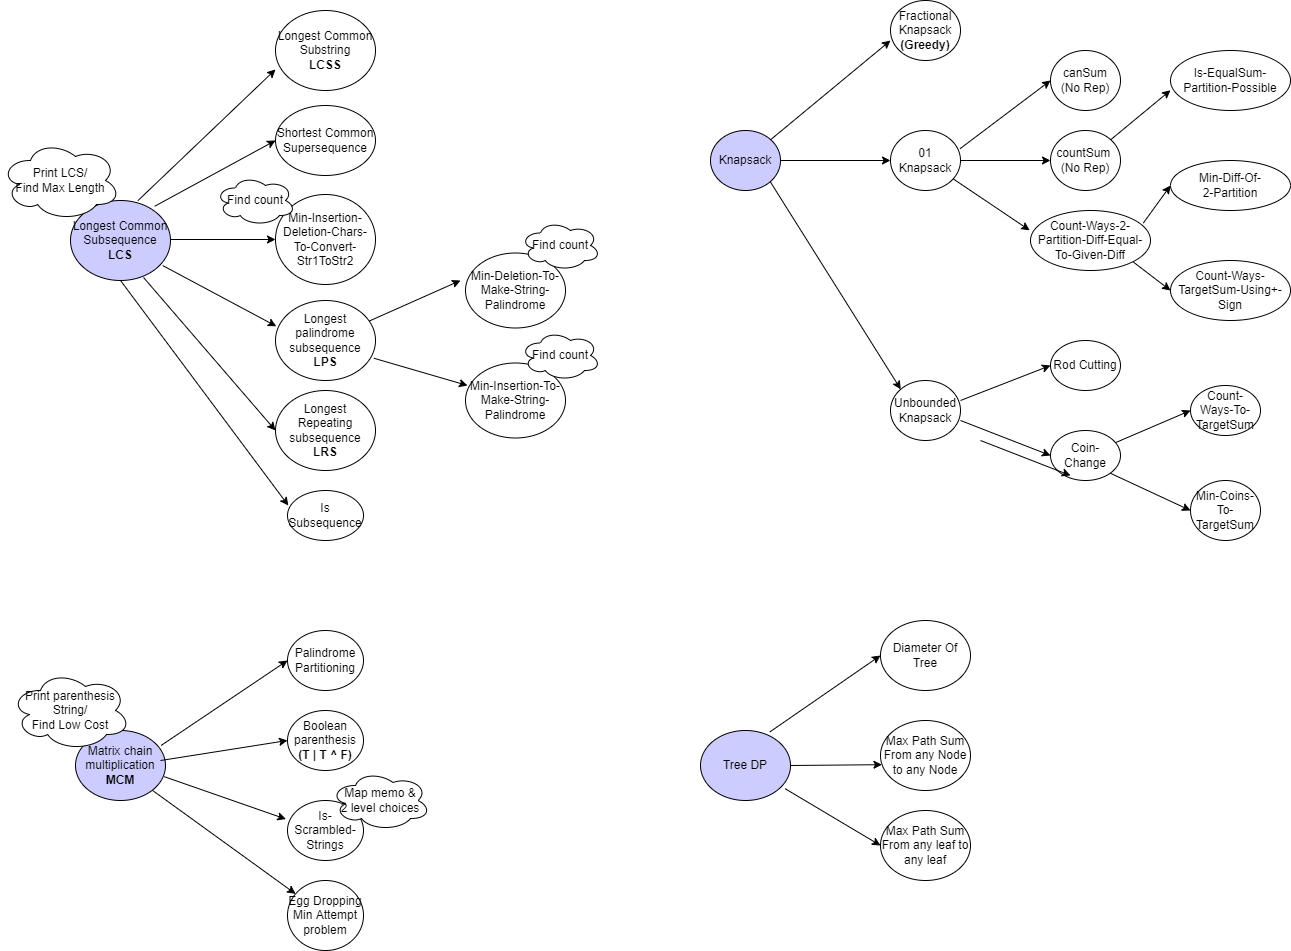
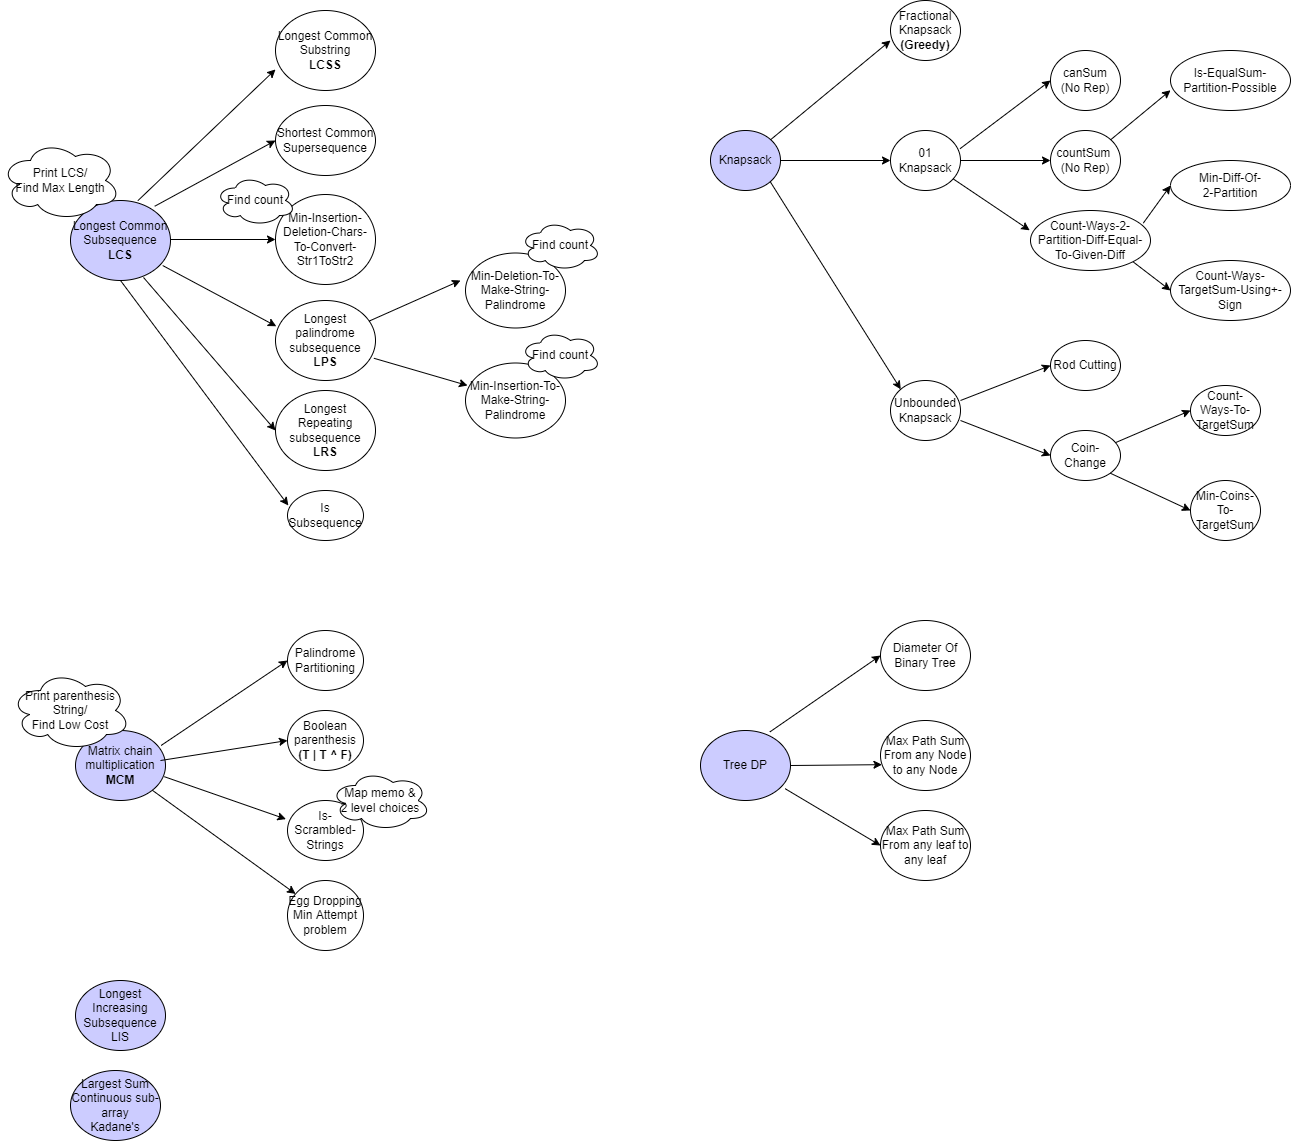
Adde Kadane's + LIS

diff --git a/Practice/src/main/java/com/p2/dp/aditya/LongestIncreasingSubsequence.java b/Practice/src/main/java/com/p2/dp/aditya/LongestIncreasingSubsequence.java
@@ -1,0 +1,76 @@
+package com.p2.dp.aditya;
+
+import java.util.*;
+
+/**
+ * Example , input = {10, 22, 9, 33, 21, 50, 41, 60, 80}, o/p= LIS is {10, 22, 33, 50, 60, 80}.
+ * Approach1
+ *                      10
+ *                 /(incl)      \(excl)
+ *                /(Find >10)    \(Find <=10)
+ *               /                \
+*              /                   \
+*                22                9
+ *           / (incl)   \(excl)
+ *          /(Find >22)  \(Still
+ *         /              \Find >10)
+ *        33              33
+ * Approach2
+ *      Transform & Conquer
+ *      Convert to LCS
+ *      LCS(array[], sortedUniqueElementsArray[])
+ *      Time = O(n^2) [i.e. n cells , for each cell a for loop] ,Space =O(n^2)
+ *      So Approach1 is optimized as Space there = O(n)
+ */
+public class LongestIncreasingSubsequence {
+
+    List<Integer> printLIS(int[] arr) {
+        List<Integer>[] memo = new List[arr.length];
+
+        return printLIS(0, arr, memo, Integer.MIN_VALUE);
+    }
+
+    private List<Integer> printLIS(int arrIndex, int[] arr, List<Integer>[] memo, int previousElementIncreasingSS) {
+        if(memo[arrIndex] != null) {
+            return memo[arrIndex];
+        }
+
+        if(arrIndex > arr.length - 1){
+            memo[arrIndex] = Collections.emptyList();
+            return Collections.emptyList();
+        }
+
+        if(arrIndex == arr.length - 1){
+            memo[arrIndex] = Collections.singletonList(arr[arr.length - 1]);
+            return memo[arrIndex];
+        }
+
+        int currentElement = arr[arrIndex];
+
+        List<Integer> list1 = new ArrayList<>();
+        //Include currentElement
+        for(int idx= arrIndex+1; idx <= arr.length - 1; idx++) {//Find next > currentElement
+            if(arr[idx] > currentElement) {
+                list1.add(currentElement);
+                list1.addAll(printLIS(idx, arr, memo, currentElement));
+                break;
+            }
+        }
+        List<Integer> list2 = new ArrayList<>();
+        //Exclude currentElement
+        for(int idx= arrIndex+1; idx <= arr.length - 1; idx++) {//Find next < currentElement AND > previousElementIncreasingSS
+            if(arr[idx] > previousElementIncreasingSS && arr[idx] < currentElement) {
+                list2.addAll(printLIS(idx, arr, memo, currentElement));
+                break;
+            }
+        }
+
+        memo[arrIndex] = (list1.size() > list2.size()) ? list1 : list2;
+        return memo[arrIndex];
+    }
+
+    public static void main(String[] args) {
+        System.out.println(new LongestIncreasingSubsequence().printLIS(new int[]{3, 10, 2, 1, 20}).equals(Arrays.asList(3, 10, 20)));
+        System.out.println(new LongestIncreasingSubsequence().printLIS(new int[]{50, 3, 10, 7, 40, 80}).equals(Arrays.asList(3, 7, 40, 80)));
+    }
+}

diff --git a/Practice/src/main/java/com/p2/dp/aditya/LargestSumContinuousArrayKadane.java b/Practice/src/main/java/com/p2/dp/aditya/LargestSumContinuousArrayKadane.java
@@ -1,0 +1,40 @@
+package com.p2.dp.aditya;
+
+/**
+ * Type 3 recursion, Piggy-backing getMaxSumStartingAtIndex()
+ *
+ * getMaxSumStartingAtIndex(idx) = Max (arr[idx], arr[idx] + getMaxSumStartingAtIndex(idx+1))
+ *
+ * Traverse array left to right
+ *
+ * Maintain global var for largestSumContinuousArray
+ *
+ * No memo required here, it is like a DP Tree problem, func(currentPos) depends on func(currentPos + 1)
+ */
+public class LargestSumContinuousArrayKadane {
+    private int largestSumContinuousArray = Integer.MIN_VALUE;
+
+    public int getLargestSumContinuousArray(int[] arr) {
+        getMaxSumStartingAtIndex(0, arr);
+
+        return largestSumContinuousArray;
+    }
+
+    private int getMaxSumStartingAtIndex(int idx, int[] arr) {
+        if(idx > arr.length - 1) {
+            return 0;
+        }
+
+        int result = Math.max(arr[idx],
+                arr[idx] + getMaxSumStartingAtIndex(idx + 1, arr)
+        );
+
+        largestSumContinuousArray = Math.max(largestSumContinuousArray, result);
+
+        return result;
+    }
+
+    public static void main(String[] args) {
+        System.out.println(new LargestSumContinuousArrayKadane().getLargestSumContinuousArray(new int[] {-2, -3, 4, -1, -2, 1, 5, -3}) == 7);
+    }
+}

diff --git a/DP.md b/DP.md
@@ -190,6 +190,8 @@
 ##### :rocket: Diameter of Binary Tree . Return max path between any 2 leaves of binary tree. Mac path need not go via root.
 ##### :rocket: Max Path sum of weighted nodes Any node to Any node . -Ve nodes exist
 ##### :rocket: Max Path sum of weighted nodes Any leaf to Any leaf. -Ve nodes exist
+##### LIS , Longest Increasing Subsequence, Return array[] or Return size Longest Increasing Subsequence of Given Array
+##### Kadane’s Algorithm, Largest Sum Contiguous Sub-array. Includes -ve numbers
 
 #### :crossed_swords: CHEAT-SHEET
 ![img.png](./resources/dp/DPProblems.png)
